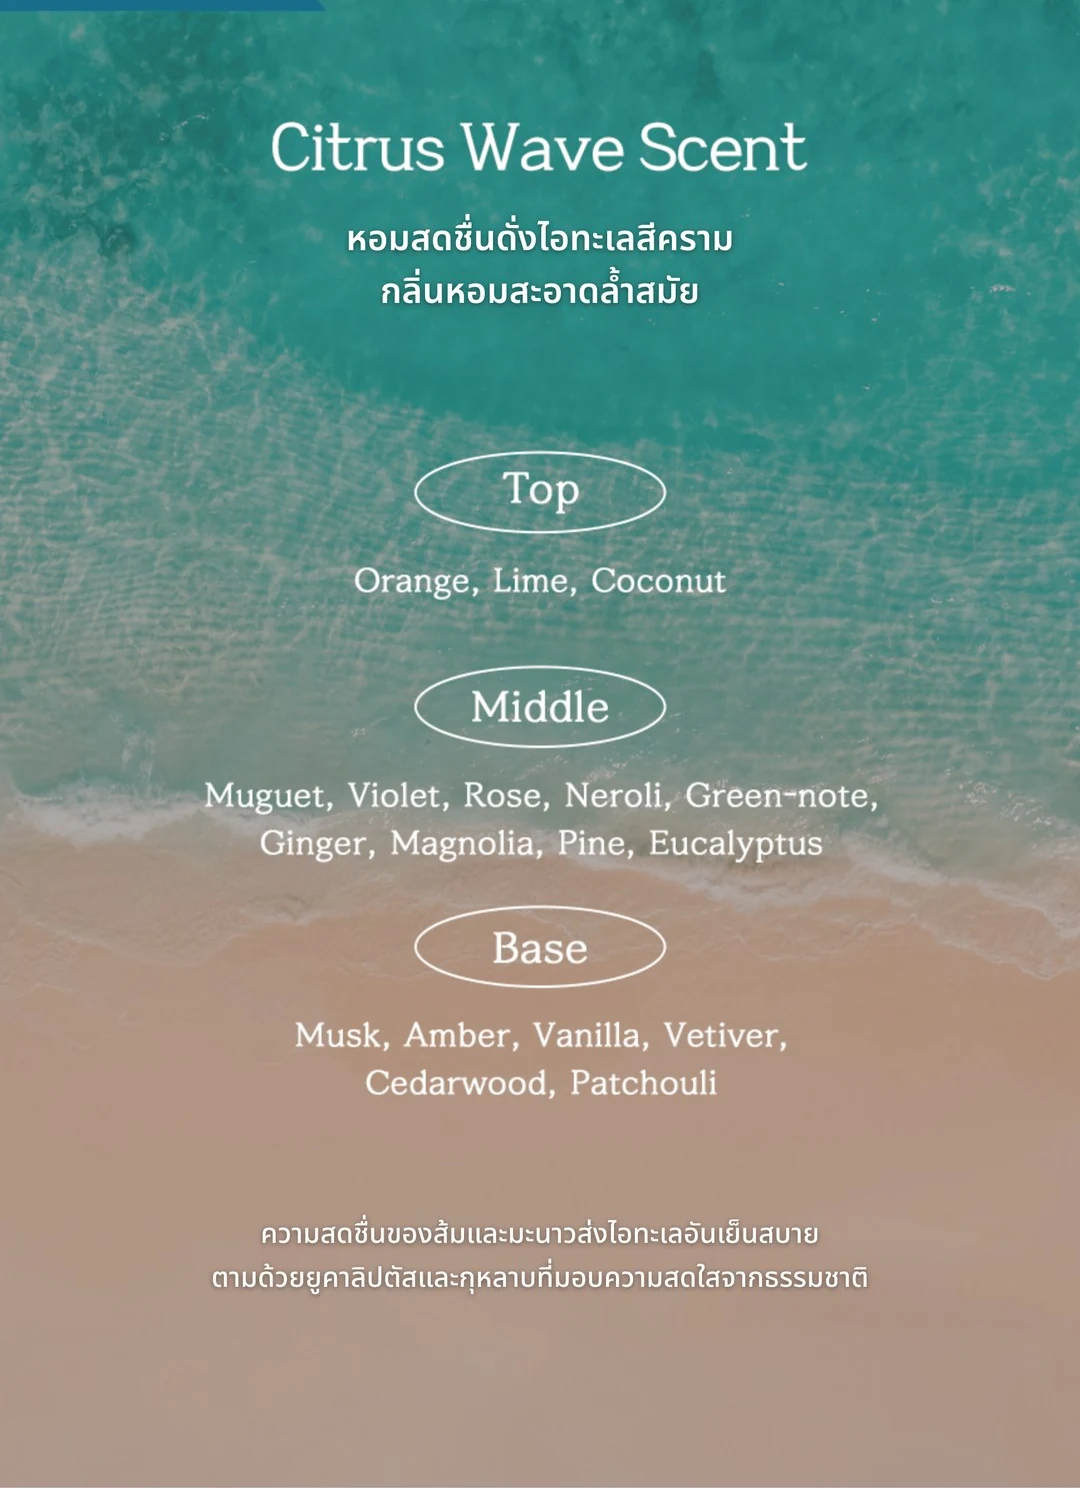
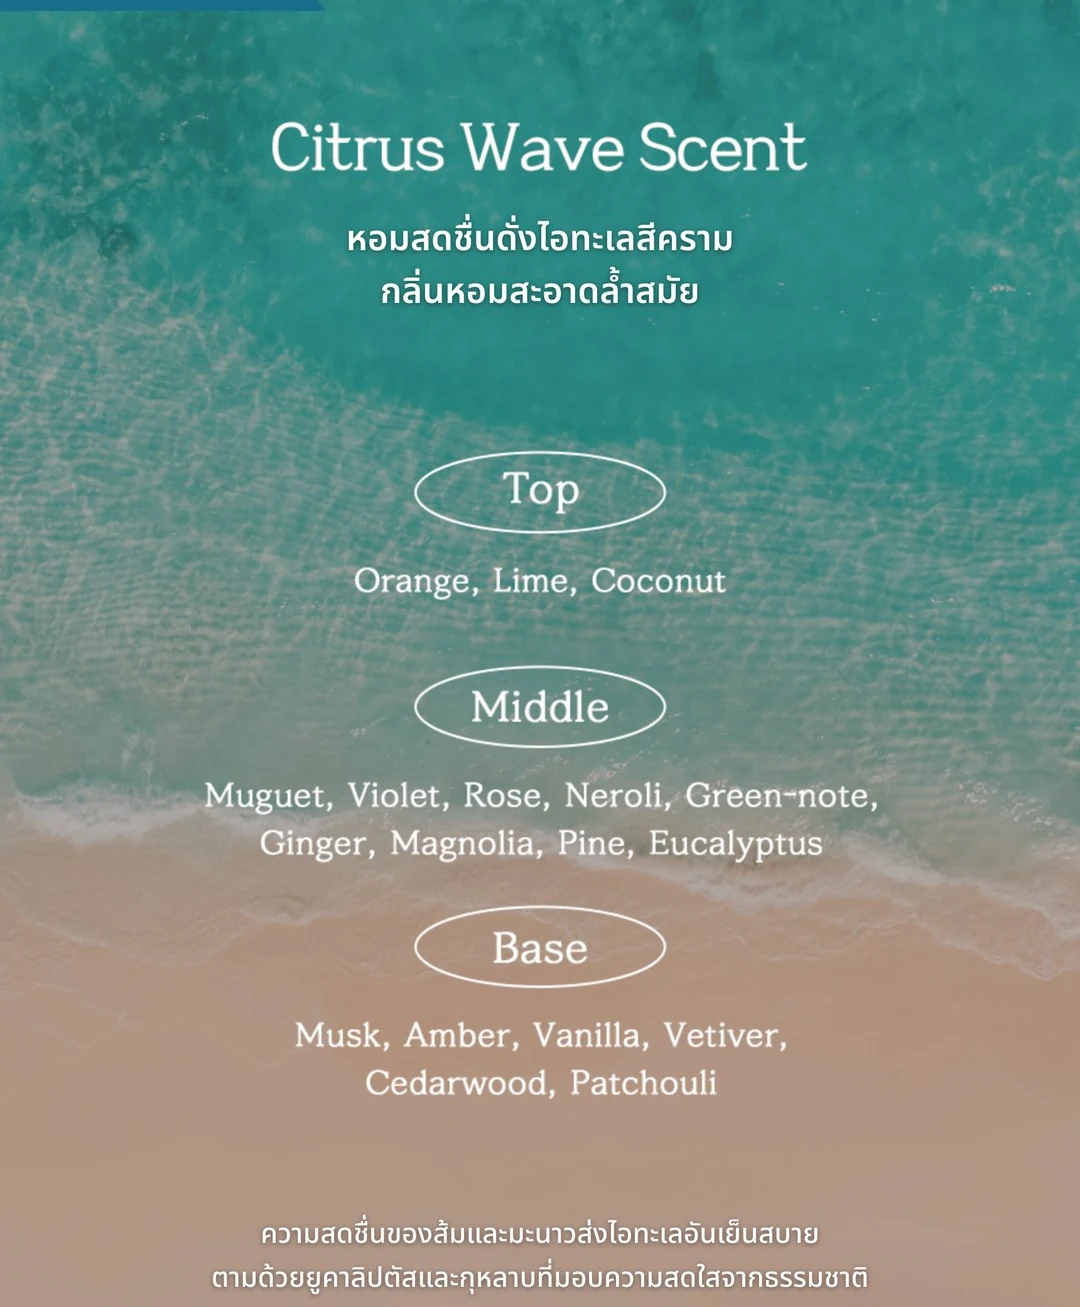
[수정] 향 노트 3장 비율 통일 + 절차 문구 갱신
- 이미지: 1425/1247/1488 → 전부 1080x1307
  · 각 이미지의 글자 끝 행을 실측(1223/1059/1287)해 안 잘리는 최소 높이로 통일
  · 🚫 짧은 쪽을 늘려 채우면 세로 줄무늬가 남는다 → 원본에서 다시 잘랐다
  · 🚨 놓친 이유 = 폰에서 **한 장씩만** 봤다. 나란히 놓고 비교하지 않았다
       (design-palette.md 에 이미 있는 규칙을 어겼다)
- 절차 1단계를 'เชื่อมต่อ LINE' 으로 — 폼이 연결 뒤에 열리므로

diff --git a/src/app/[locale]/partner/mist/page.tsx b/src/app/[locale]/partner/mist/page.tsx
@@ -57,9 +57,10 @@ const MIST_COPY: Record<string, string> = {
 };
 
 /** 신청 절차 — `/th/partner` 에서 이관(2026-08-28 §5-d). ④ 주문 단계를 두지 않는다. */
+/* 🚨 1단계가 LINE 연결이다 — 폼이 연결 뒤에 열리므로 여기 순서도 그래야 한다(2026-08-28). */
 const STEPS = [
-  { n: '1', head: 'ลงทะเบียน', body: 'กรอกชื่อร้าน ลิงก์ Google Maps และผู้ติดต่อ' },
-  { n: '2', head: 'ยืนยันร้าน', body: 'ทีมงานตรวจสอบและติดต่อกลับ' },
+  { n: '1', head: 'เชื่อมต่อ LINE', body: 'แล้วกรอกชื่อร้าน ลิงก์ Google Maps และผู้ติดต่อ' },
+  { n: '2', head: 'ยืนยันร้าน', body: 'ทีมงานตรวจสอบและติดต่อกลับทาง LINE' },
   { n: '3', head: 'ทดลองใช้', body: 'ส่งสินค้าตัวอย่างให้ทดลองที่ร้าน' },
 ];
 
